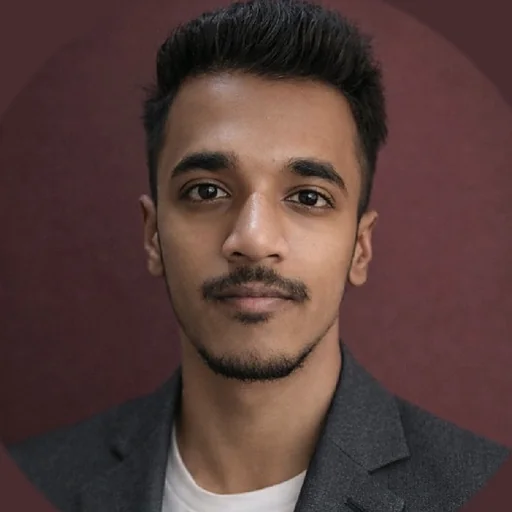
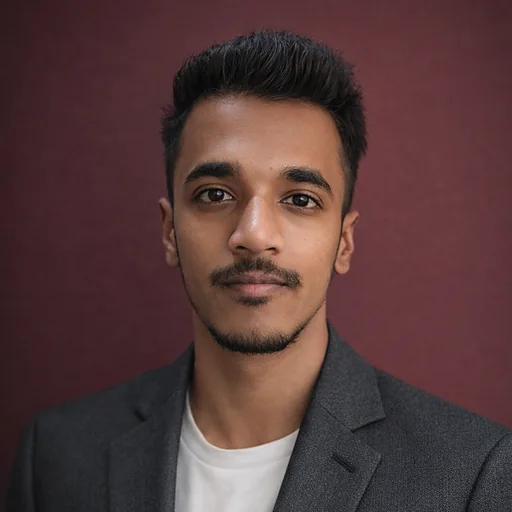
Drive sync: add Mamatha and Mr. Sakib photos, refresh Syed Mutammur Abbas
Claude-Session: https://claude.ai/code/session_01VXkqf2WqYVxyRPqfzkpRno

diff --git a/lib/data/people.ts b/lib/data/people.ts
@@ -98,7 +98,7 @@ export const studentOrganisers: Person[] = [
   { name: "Mr. Sai Charan", role: "Student Organiser" },
   { name: "Ms. Chrysolite", role: "Student Organiser" },
   { name: "Mr. Mohammed Afnan", role: "Student Organiser" },
-  { name: "Mr. Sakib", role: "Student Organiser" },
+  { name: "Mr. Sakib", role: "Student Organiser", photo: "/team/sakib.webp" },
 ];
 
 /**
@@ -132,7 +132,7 @@ export const volunteers: Person[] = [
   { name: "MD Luqman", role: "Student Coordinator" },
   { name: "Anusha", role: "Student Coordinator" },
   { name: "Mohammed Bilal", role: "Student Coordinator" },
-  { name: "Mamatha", role: "Student Coordinator" },
+  { name: "Mamatha", role: "Student Coordinator", photo: "/team/mamatha.webp" },
   { name: "Karpaswamy", role: "Student Coordinator" },
   { name: "Mubasshira", role: "Student Coordinator" },
   { name: "Jayesh", role: "Student Coordinator" },
